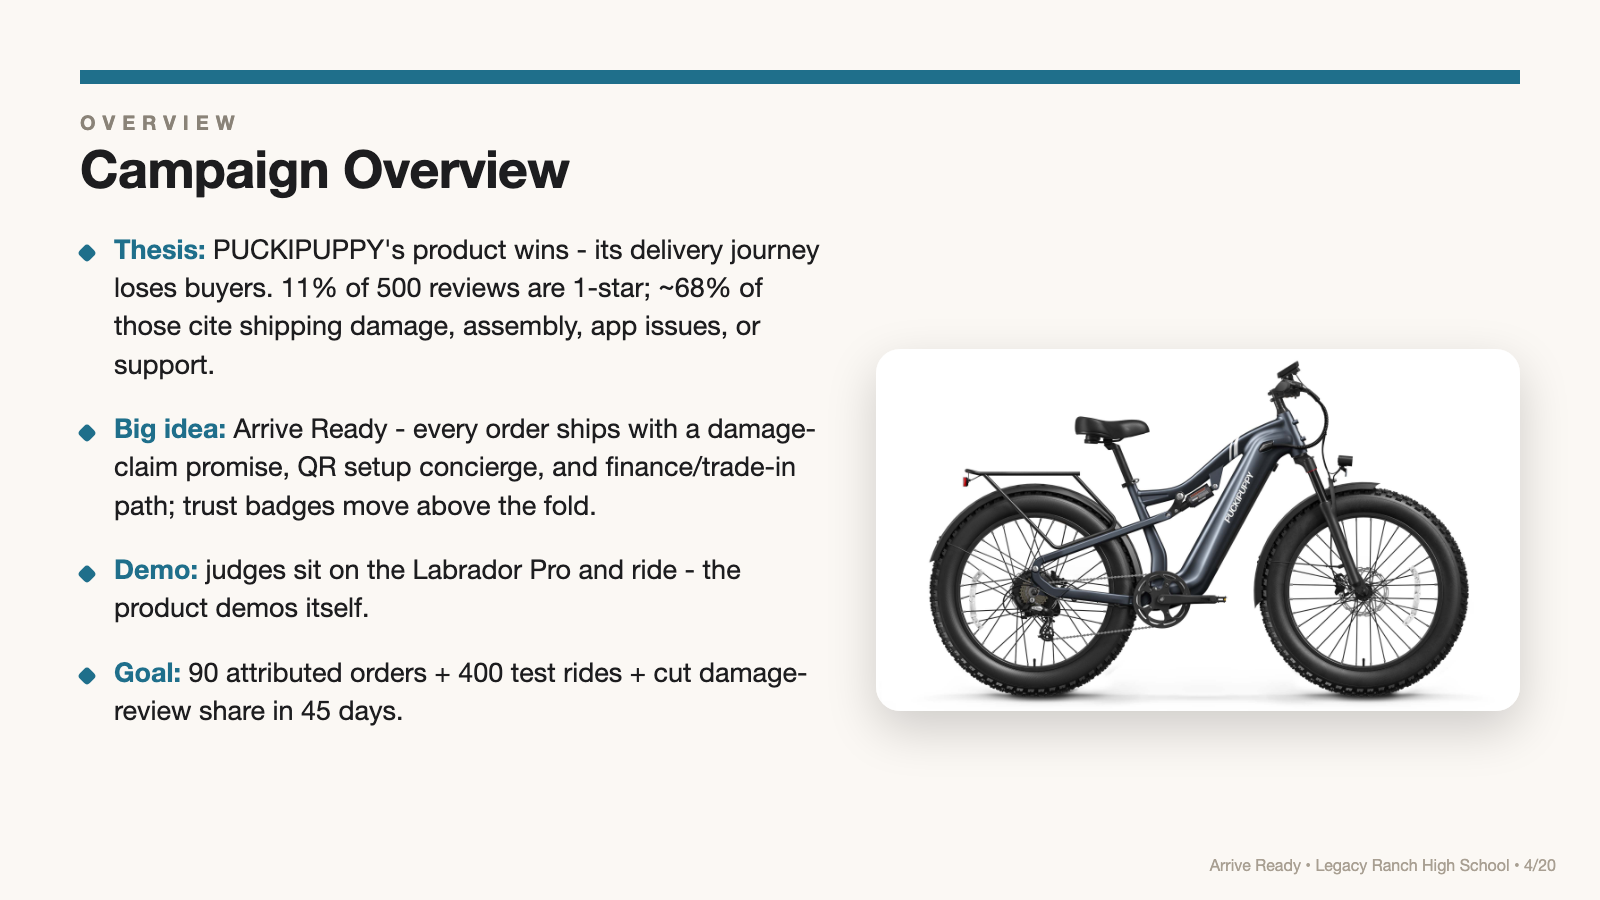
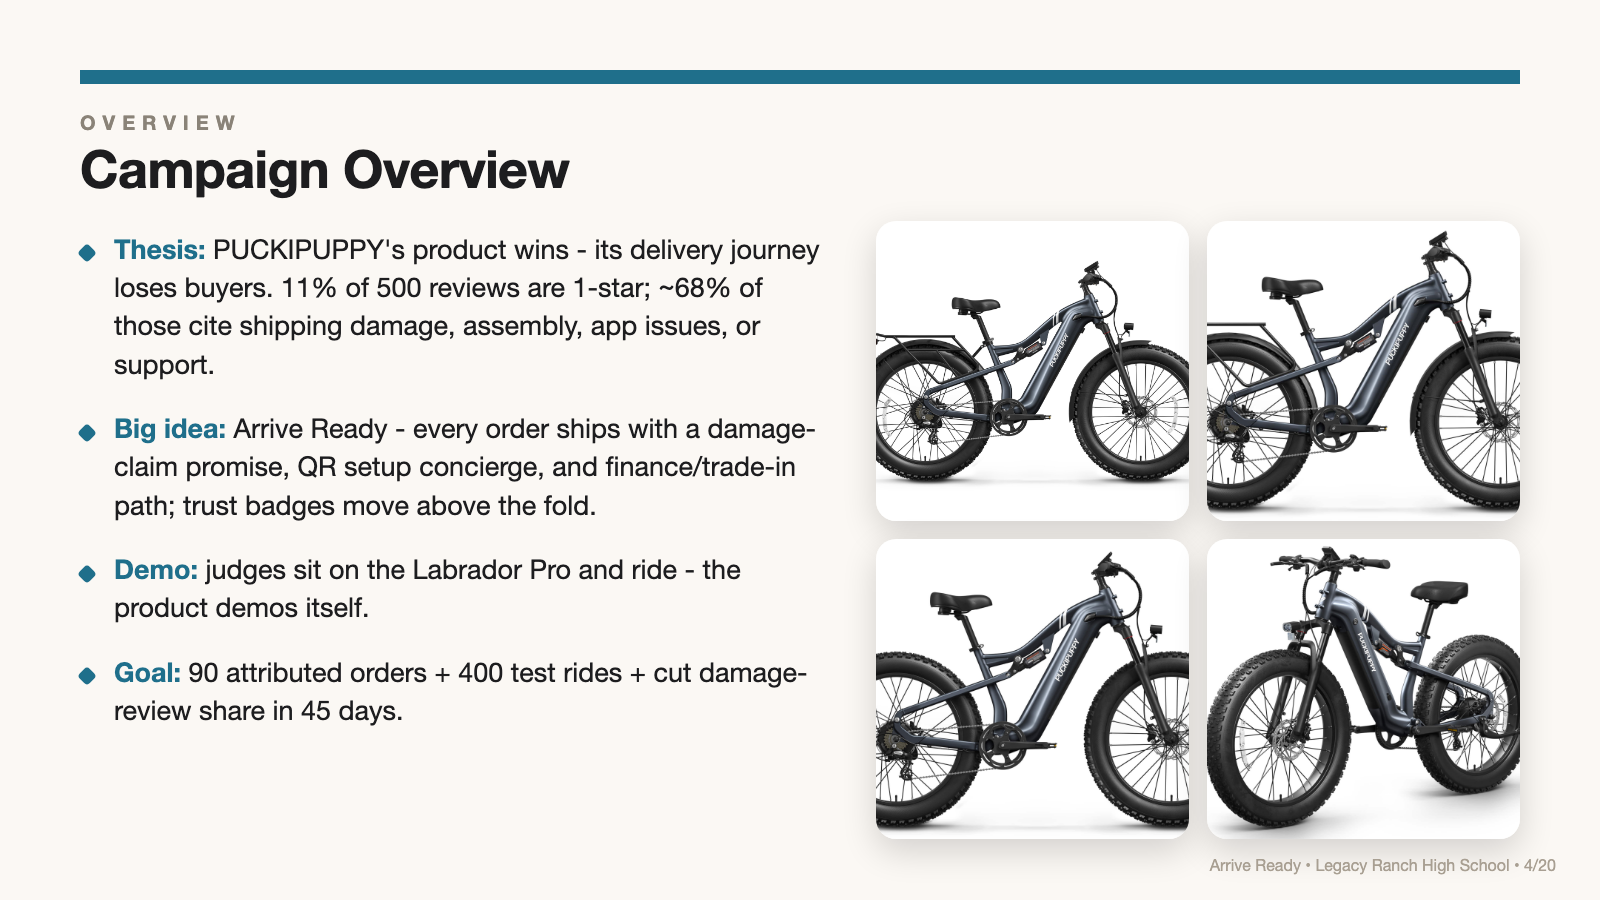
render_poster: real-business visuals - review stat chips + verbatim quote cards on research slides, photo collages on product slides
Generated with [Devin](https://devin.ai)

Changed region(s): [[0.5312, 0.2489, 0.9688, 0.9644]]

diff --git a/pipeline/runs/v18/posters/p04.html b/pipeline/runs/v18/posters/p04.html
@@ -16,6 +16,16 @@
 .vis img{max-width:100%;max-height:640px;border-radius:24px;box-shadow:0 18px 50px rgba(0,0,0,.18);object-fit:contain}
 .vis.ph{border:3px dashed #c9c0b4;border-radius:24px;align-items:center;justify-content:center}
 .phcap{font-size:20px;color:#8a8378;text-align:center;padding:30px;line-height:1.5}
+/* real-business extras */
+.collage{flex:1;display:grid;grid-template-columns:1fr 1fr;gap:18px;align-content:center}
+.collage img{width:100%;height:300px;object-fit:cover;border-radius:20px;box-shadow:0 12px 34px rgba(0,0,0,.16)}
+.viscol{flex:1;display:flex;flex-direction:column;gap:22px;justify-content:center}
+.statrow{display:flex;gap:14px}
+.stat{flex:1;background:var(--brand);color:#fff;border-radius:18px;padding:20px 16px;text-align:center;box-shadow:0 10px 26px rgba(0,0,0,.15)}
+.statn{font-size:30px;font-weight:900;line-height:1.15}
+.qcard{background:#fff;border:1px solid #e9e2d6;border-left:8px solid var(--brand);border-radius:16px;padding:22px 24px;box-shadow:0 8px 22px rgba(0,0,0,.07)}
+.qtext{font-size:23px;font-weight:600;line-height:1.35;color:#2a2a2a}
+.qsrc{font-size:15px;color:#8a8378;margin-top:10px;font-weight:700;letter-spacing:.05em;text-transform:uppercase}
 .footw{position:absolute;bottom:26px;right:44px;font-size:16px;color:rgba(255,255,255,.75)}
 .footw.dark{color:#a89f92}
 /* cover */
@@ -35,5 +45,5 @@
 </style></head><body><div class="slide"><div class="pad"><div class="topbar" style="background:#1f6f8b"></div>
 <div class="head"><div class="kicker">OVERVIEW</div>
 <div class="title">Campaign Overview</div></div>
-<div class="cols"><div class="blist"><ul><li><b>Thesis:</b> PUCKIPUPPY&#x27;s product wins - its delivery journey loses buyers. 11% of 500 reviews are 1-star; ~68% of those cite shipping damage, assembly, app issues, or support.</li><li><b>Big idea:</b> Arrive Ready - every order ships with a damage-claim promise, QR setup concierge, and finance/trade-in path; trust badges move above the fold.</li><li><b>Demo:</b> judges sit on the Labrador Pro and ride - the product demos itself.</li><li><b>Goal:</b> 90 attributed orders + 400 test rides + cut damage-review share in 45 days.</li></ul></div><div class="vis"><img src="file:///Users/pranav/Desktop/DevinProjects/imcp-product-finder/pipeline/runs/v18/photos/labrador_2.jpg"></div></div>
+<div class="cols"><div class="blist"><ul><li><b>Thesis:</b> PUCKIPUPPY&#x27;s product wins - its delivery journey loses buyers. 11% of 500 reviews are 1-star; ~68% of those cite shipping damage, assembly, app issues, or support.</li><li><b>Big idea:</b> Arrive Ready - every order ships with a damage-claim promise, QR setup concierge, and finance/trade-in path; trust badges move above the fold.</li><li><b>Demo:</b> judges sit on the Labrador Pro and ride - the product demos itself.</li><li><b>Goal:</b> 90 attributed orders + 400 test rides + cut damage-review share in 45 days.</li></ul></div><div class="collage"><img src="file:///Users/pranav/Desktop/DevinProjects/imcp-product-finder/pipeline/runs/v18/photos/labrador_1.jpg"><img src="file:///Users/pranav/Desktop/DevinProjects/imcp-product-finder/pipeline/runs/v18/photos/labrador_2.jpg"><img src="file:///Users/pranav/Desktop/DevinProjects/imcp-product-finder/pipeline/runs/v18/photos/labrador_3.jpg"><img src="file:///Users/pranav/Desktop/DevinProjects/imcp-product-finder/pipeline/runs/v18/photos/labrador_4.jpg"></div></div>
 <div class="footw dark">Arrive Ready  •  Legacy Ranch High School  •  4/20</div></div></div></body></html>

diff --git a/pipeline/runs/v18/posters/p06.html b/pipeline/runs/v18/posters/p06.html
@@ -16,6 +16,16 @@
 .vis img{max-width:100%;max-height:640px;border-radius:24px;box-shadow:0 18px 50px rgba(0,0,0,.18);object-fit:contain}
 .vis.ph{border:3px dashed #c9c0b4;border-radius:24px;align-items:center;justify-content:center}
 .phcap{font-size:20px;color:#8a8378;text-align:center;padding:30px;line-height:1.5}
+/* real-business extras */
+.collage{flex:1;display:grid;grid-template-columns:1fr 1fr;gap:18px;align-content:center}
+.collage img{width:100%;height:300px;object-fit:cover;border-radius:20px;box-shadow:0 12px 34px rgba(0,0,0,.16)}
+.viscol{flex:1;display:flex;flex-direction:column;gap:22px;justify-content:center}
+.statrow{display:flex;gap:14px}
+.stat{flex:1;background:var(--brand);color:#fff;border-radius:18px;padding:20px 16px;text-align:center;box-shadow:0 10px 26px rgba(0,0,0,.15)}
+.statn{font-size:30px;font-weight:900;line-height:1.15}
+.qcard{background:#fff;border:1px solid #e9e2d6;border-left:8px solid var(--brand);border-radius:16px;padding:22px 24px;box-shadow:0 8px 22px rgba(0,0,0,.07)}
+.qtext{font-size:23px;font-weight:600;line-height:1.35;color:#2a2a2a}
+.qsrc{font-size:15px;color:#8a8378;margin-top:10px;font-weight:700;letter-spacing:.05em;text-transform:uppercase}
 .footw{position:absolute;bottom:26px;right:44px;font-size:16px;color:rgba(255,255,255,.75)}
 .footw.dark{color:#a89f92}
 /* cover */
@@ -35,5 +45,5 @@
 </style></head><body><div class="slide"><div class="pad"><div class="topbar" style="background:#1f6f8b"></div>
 <div class="head"><div class="kicker">DESCRIPTION</div>
 <div class="title">The Company &amp; Its Position</div></div>
-<div class="cols"><div class="blist"><ul><li><b>California DTC brand est.</b> 2022 by founder Bob, named for his dog Puck; ~145K monthly visits, 11-50 employees.</li><li><b>Trust assets exist but are buried:</b> UL certifications, Trustpilot 4.7/620, founder story - none above the fold.</li><li><b>DTC-only vs.</b> &#x27;affordable for all&#x27; promise; no mass retail presence found in audit - whitespace is experience, not distribution.</li></ul></div><div class="vis"><img src="file:///Users/pranav/Desktop/DevinProjects/imcp-product-finder/pipeline/runs/v18/visuals/s06.png"></div></div>
+<div class="cols"><div class="blist"><ul><li><b>California DTC brand est.</b> 2022 by founder Bob, named for his dog Puck; ~145K monthly visits, 11-50 employees.</li><li><b>Trust assets exist but are buried:</b> UL certifications, Trustpilot 4.7/620, founder story - none above the fold.</li><li><b>DTC-only vs.</b> &#x27;affordable for all&#x27; promise; no mass retail presence found in audit - whitespace is experience, not distribution.</li></ul></div><div class="collage"><img src="file:///Users/pranav/Desktop/DevinProjects/imcp-product-finder/pipeline/runs/v18/photos/labrador_1.jpg"><img src="file:///Users/pranav/Desktop/DevinProjects/imcp-product-finder/pipeline/runs/v18/photos/labrador_2.jpg"><img src="file:///Users/pranav/Desktop/DevinProjects/imcp-product-finder/pipeline/runs/v18/photos/labrador_3.jpg"><img src="file:///Users/pranav/Desktop/DevinProjects/imcp-product-finder/pipeline/runs/v18/photos/labrador_4.jpg"></div></div>
 <div class="footw dark">Arrive Ready  •  Legacy Ranch High School  •  6/20</div></div></div></body></html>

diff --git a/pipeline/runs/v18/posters/p05.html b/pipeline/runs/v18/posters/p05.html
@@ -16,6 +16,16 @@
 .vis img{max-width:100%;max-height:640px;border-radius:24px;box-shadow:0 18px 50px rgba(0,0,0,.18);object-fit:contain}
 .vis.ph{border:3px dashed #c9c0b4;border-radius:24px;align-items:center;justify-content:center}
 .phcap{font-size:20px;color:#8a8378;text-align:center;padding:30px;line-height:1.5}
+/* real-business extras */
+.collage{flex:1;display:grid;grid-template-columns:1fr 1fr;gap:18px;align-content:center}
+.collage img{width:100%;height:300px;object-fit:cover;border-radius:20px;box-shadow:0 12px 34px rgba(0,0,0,.16)}
+.viscol{flex:1;display:flex;flex-direction:column;gap:22px;justify-content:center}
+.statrow{display:flex;gap:14px}
+.stat{flex:1;background:var(--brand);color:#fff;border-radius:18px;padding:20px 16px;text-align:center;box-shadow:0 10px 26px rgba(0,0,0,.15)}
+.statn{font-size:30px;font-weight:900;line-height:1.15}
+.qcard{background:#fff;border:1px solid #e9e2d6;border-left:8px solid var(--brand);border-radius:16px;padding:22px 24px;box-shadow:0 8px 22px rgba(0,0,0,.07)}
+.qtext{font-size:23px;font-weight:600;line-height:1.35;color:#2a2a2a}
+.qsrc{font-size:15px;color:#8a8378;margin-top:10px;font-weight:700;letter-spacing:.05em;text-transform:uppercase}
 .footw{position:absolute;bottom:26px;right:44px;font-size:16px;color:rgba(255,255,255,.75)}
 .footw.dark{color:#a89f92}
 /* cover */
@@ -35,5 +45,5 @@
 </style></head><body><div class="slide"><div class="pad"><div class="topbar" style="background:#1f6f8b"></div>
 <div class="head"><div class="kicker">DESCRIPTION</div>
 <div class="title">The Product</div></div>
-<div class="cols"><div class="blist"><ul><li><b>PUCKIPUPPY makes dog-breed-named ebikes -</b> Labrador Pro (~$1,399), Boxer ST, Corgi, Husky trike - for riders 28-50 who want car-free trips.</li><li>UL 2849/2271 certified; torque sensor praised as &#x27;natural&#x27; feel; 80-mile range in reviews.</li><li><b>Problem:</b> $1,299-$1,699 sticker + freight shipping + self-assembly = the highest-anxiety purchase in the category.</li></ul></div><div class="vis"><img src="file:///Users/pranav/Desktop/DevinProjects/imcp-product-finder/pipeline/runs/v18/photos/labrador_3.jpg"></div></div>
+<div class="cols"><div class="blist"><ul><li><b>PUCKIPUPPY makes dog-breed-named ebikes -</b> Labrador Pro (~$1,399), Boxer ST, Corgi, Husky trike - for riders 28-50 who want car-free trips.</li><li>UL 2849/2271 certified; torque sensor praised as &#x27;natural&#x27; feel; 80-mile range in reviews.</li><li><b>Problem:</b> $1,299-$1,699 sticker + freight shipping + self-assembly = the highest-anxiety purchase in the category.</li></ul></div><div class="collage"><img src="file:///Users/pranav/Desktop/DevinProjects/imcp-product-finder/pipeline/runs/v18/photos/labrador_1.jpg"><img src="file:///Users/pranav/Desktop/DevinProjects/imcp-product-finder/pipeline/runs/v18/photos/labrador_2.jpg"><img src="file:///Users/pranav/Desktop/DevinProjects/imcp-product-finder/pipeline/runs/v18/photos/labrador_3.jpg"><img src="file:///Users/pranav/Desktop/DevinProjects/imcp-product-finder/pipeline/runs/v18/photos/labrador_4.jpg"></div></div>
 <div class="footw dark">Arrive Ready  •  Legacy Ranch High School  •  5/20</div></div></div></body></html>

diff --git a/pipeline/runs/v18/posters/p08.html b/pipeline/runs/v18/posters/p08.html
@@ -16,6 +16,16 @@
 .vis img{max-width:100%;max-height:640px;border-radius:24px;box-shadow:0 18px 50px rgba(0,0,0,.18);object-fit:contain}
 .vis.ph{border:3px dashed #c9c0b4;border-radius:24px;align-items:center;justify-content:center}
 .phcap{font-size:20px;color:#8a8378;text-align:center;padding:30px;line-height:1.5}
+/* real-business extras */
+.collage{flex:1;display:grid;grid-template-columns:1fr 1fr;gap:18px;align-content:center}
+.collage img{width:100%;height:300px;object-fit:cover;border-radius:20px;box-shadow:0 12px 34px rgba(0,0,0,.16)}
+.viscol{flex:1;display:flex;flex-direction:column;gap:22px;justify-content:center}
+.statrow{display:flex;gap:14px}
+.stat{flex:1;background:var(--brand);color:#fff;border-radius:18px;padding:20px 16px;text-align:center;box-shadow:0 10px 26px rgba(0,0,0,.15)}
+.statn{font-size:30px;font-weight:900;line-height:1.15}
+.qcard{background:#fff;border:1px solid #e9e2d6;border-left:8px solid var(--brand);border-radius:16px;padding:22px 24px;box-shadow:0 8px 22px rgba(0,0,0,.07)}
+.qtext{font-size:23px;font-weight:600;line-height:1.35;color:#2a2a2a}
+.qsrc{font-size:15px;color:#8a8378;margin-top:10px;font-weight:700;letter-spacing:.05em;text-transform:uppercase}
 .footw{position:absolute;bottom:26px;right:44px;font-size:16px;color:rgba(255,255,255,.75)}
 .footw.dark{color:#a89f92}
 /* cover */
@@ -35,5 +45,5 @@
 </style></head><body><div class="slide"><div class="pad"><div class="topbar" style="background:#1f6f8b"></div>
 <div class="head"><div class="kicker">TARGET_MARKET</div>
 <div class="title">Target Market</div></div>
-<div class="cols"><div class="blist"><ul><li><b>P1 -</b> First-Time E-Commuters (28-50): suburbs, one car per adult, 2-6 week consideration, reads reviews + certifications.</li><li><b>P2 -</b> Pet-People Lifestyle Buyers (25-45): dog owners who ride with pets; respond to founder story + breed models.</li><li><b>Both need the same thing:</b> proof the $1,400 bike arrives ready and is supported when it doesn&#x27;t.</li></ul></div><div class="vis"><img src="file:///Users/pranav/Desktop/DevinProjects/imcp-product-finder/pipeline/runs/v18/photos/labrador_4.jpg"></div></div>
+<div class="cols"><div class="blist"><ul><li><b>P1 -</b> First-Time E-Commuters (28-50): suburbs, one car per adult, 2-6 week consideration, reads reviews + certifications.</li><li><b>P2 -</b> Pet-People Lifestyle Buyers (25-45): dog owners who ride with pets; respond to founder story + breed models.</li><li><b>Both need the same thing:</b> proof the $1,400 bike arrives ready and is supported when it doesn&#x27;t.</li></ul></div><div class="collage"><img src="file:///Users/pranav/Desktop/DevinProjects/imcp-product-finder/pipeline/runs/v18/photos/labrador_1.jpg"><img src="file:///Users/pranav/Desktop/DevinProjects/imcp-product-finder/pipeline/runs/v18/photos/labrador_2.jpg"><img src="file:///Users/pranav/Desktop/DevinProjects/imcp-product-finder/pipeline/runs/v18/photos/labrador_3.jpg"><img src="file:///Users/pranav/Desktop/DevinProjects/imcp-product-finder/pipeline/runs/v18/photos/labrador_4.jpg"></div></div>
 <div class="footw dark">Arrive Ready  •  Legacy Ranch High School  •  8/20</div></div></div></body></html>

diff --git a/pipeline/runs/v18/posters/p01.html b/pipeline/runs/v18/posters/p01.html
@@ -16,6 +16,16 @@
 .vis img{max-width:100%;max-height:640px;border-radius:24px;box-shadow:0 18px 50px rgba(0,0,0,.18);object-fit:contain}
 .vis.ph{border:3px dashed #c9c0b4;border-radius:24px;align-items:center;justify-content:center}
 .phcap{font-size:20px;color:#8a8378;text-align:center;padding:30px;line-height:1.5}
+/* real-business extras */
+.collage{flex:1;display:grid;grid-template-columns:1fr 1fr;gap:18px;align-content:center}
+.collage img{width:100%;height:300px;object-fit:cover;border-radius:20px;box-shadow:0 12px 34px rgba(0,0,0,.16)}
+.viscol{flex:1;display:flex;flex-direction:column;gap:22px;justify-content:center}
+.statrow{display:flex;gap:14px}
+.stat{flex:1;background:var(--brand);color:#fff;border-radius:18px;padding:20px 16px;text-align:center;box-shadow:0 10px 26px rgba(0,0,0,.15)}
+.statn{font-size:30px;font-weight:900;line-height:1.15}
+.qcard{background:#fff;border:1px solid #e9e2d6;border-left:8px solid var(--brand);border-radius:16px;padding:22px 24px;box-shadow:0 8px 22px rgba(0,0,0,.07)}
+.qtext{font-size:23px;font-weight:600;line-height:1.35;color:#2a2a2a}
+.qsrc{font-size:15px;color:#8a8378;margin-top:10px;font-weight:700;letter-spacing:.05em;text-transform:uppercase}
 .footw{position:absolute;bottom:26px;right:44px;font-size:16px;color:rgba(255,255,255,.75)}
 .footw.dark{color:#a89f92}
 /* cover */

diff --git a/pipeline/runs/v18/posters/p02.html b/pipeline/runs/v18/posters/p02.html
@@ -16,6 +16,16 @@
 .vis img{max-width:100%;max-height:640px;border-radius:24px;box-shadow:0 18px 50px rgba(0,0,0,.18);object-fit:contain}
 .vis.ph{border:3px dashed #c9c0b4;border-radius:24px;align-items:center;justify-content:center}
 .phcap{font-size:20px;color:#8a8378;text-align:center;padding:30px;line-height:1.5}
+/* real-business extras */
+.collage{flex:1;display:grid;grid-template-columns:1fr 1fr;gap:18px;align-content:center}
+.collage img{width:100%;height:300px;object-fit:cover;border-radius:20px;box-shadow:0 12px 34px rgba(0,0,0,.16)}
+.viscol{flex:1;display:flex;flex-direction:column;gap:22px;justify-content:center}
+.statrow{display:flex;gap:14px}
+.stat{flex:1;background:var(--brand);color:#fff;border-radius:18px;padding:20px 16px;text-align:center;box-shadow:0 10px 26px rgba(0,0,0,.15)}
+.statn{font-size:30px;font-weight:900;line-height:1.15}
+.qcard{background:#fff;border:1px solid #e9e2d6;border-left:8px solid var(--brand);border-radius:16px;padding:22px 24px;box-shadow:0 8px 22px rgba(0,0,0,.07)}
+.qtext{font-size:23px;font-weight:600;line-height:1.35;color:#2a2a2a}
+.qsrc{font-size:15px;color:#8a8378;margin-top:10px;font-weight:700;letter-spacing:.05em;text-transform:uppercase}
 .footw{position:absolute;bottom:26px;right:44px;font-size:16px;color:rgba(255,255,255,.75)}
 .footw.dark{color:#a89f92}
 /* cover */

diff --git a/pipeline/runs/v18/posters/p03.html b/pipeline/runs/v18/posters/p03.html
@@ -16,6 +16,16 @@
 .vis img{max-width:100%;max-height:640px;border-radius:24px;box-shadow:0 18px 50px rgba(0,0,0,.18);object-fit:contain}
 .vis.ph{border:3px dashed #c9c0b4;border-radius:24px;align-items:center;justify-content:center}
 .phcap{font-size:20px;color:#8a8378;text-align:center;padding:30px;line-height:1.5}
+/* real-business extras */
+.collage{flex:1;display:grid;grid-template-columns:1fr 1fr;gap:18px;align-content:center}
+.collage img{width:100%;height:300px;object-fit:cover;border-radius:20px;box-shadow:0 12px 34px rgba(0,0,0,.16)}
+.viscol{flex:1;display:flex;flex-direction:column;gap:22px;justify-content:center}
+.statrow{display:flex;gap:14px}
+.stat{flex:1;background:var(--brand);color:#fff;border-radius:18px;padding:20px 16px;text-align:center;box-shadow:0 10px 26px rgba(0,0,0,.15)}
+.statn{font-size:30px;font-weight:900;line-height:1.15}
+.qcard{background:#fff;border:1px solid #e9e2d6;border-left:8px solid var(--brand);border-radius:16px;padding:22px 24px;box-shadow:0 8px 22px rgba(0,0,0,.07)}
+.qtext{font-size:23px;font-weight:600;line-height:1.35;color:#2a2a2a}
+.qsrc{font-size:15px;color:#8a8378;margin-top:10px;font-weight:700;letter-spacing:.05em;text-transform:uppercase}
 .footw{position:absolute;bottom:26px;right:44px;font-size:16px;color:rgba(255,255,255,.75)}
 .footw.dark{color:#a89f92}
 /* cover */

diff --git a/pipeline/runs/v18/posters/p07.html b/pipeline/runs/v18/posters/p07.html
@@ -16,6 +16,16 @@
 .vis img{max-width:100%;max-height:640px;border-radius:24px;box-shadow:0 18px 50px rgba(0,0,0,.18);object-fit:contain}
 .vis.ph{border:3px dashed #c9c0b4;border-radius:24px;align-items:center;justify-content:center}
 .phcap{font-size:20px;color:#8a8378;text-align:center;padding:30px;line-height:1.5}
+/* real-business extras */
+.collage{flex:1;display:grid;grid-template-columns:1fr 1fr;gap:18px;align-content:center}
+.collage img{width:100%;height:300px;object-fit:cover;border-radius:20px;box-shadow:0 12px 34px rgba(0,0,0,.16)}
+.viscol{flex:1;display:flex;flex-direction:column;gap:22px;justify-content:center}
+.statrow{display:flex;gap:14px}
+.stat{flex:1;background:var(--brand);color:#fff;border-radius:18px;padding:20px 16px;text-align:center;box-shadow:0 10px 26px rgba(0,0,0,.15)}
+.statn{font-size:30px;font-weight:900;line-height:1.15}
+.qcard{background:#fff;border:1px solid #e9e2d6;border-left:8px solid var(--brand);border-radius:16px;padding:22px 24px;box-shadow:0 8px 22px rgba(0,0,0,.07)}
+.qtext{font-size:23px;font-weight:600;line-height:1.35;color:#2a2a2a}
+.qsrc{font-size:15px;color:#8a8378;margin-top:10px;font-weight:700;letter-spacing:.05em;text-transform:uppercase}
 .footw{position:absolute;bottom:26px;right:44px;font-size:16px;color:rgba(255,255,255,.75)}
 .footw.dark{color:#a89f92}
 /* cover */

diff --git a/pipeline/runs/v18/posters/p09.html b/pipeline/runs/v18/posters/p09.html
@@ -16,6 +16,16 @@
 .vis img{max-width:100%;max-height:640px;border-radius:24px;box-shadow:0 18px 50px rgba(0,0,0,.18);object-fit:contain}
 .vis.ph{border:3px dashed #c9c0b4;border-radius:24px;align-items:center;justify-content:center}
 .phcap{font-size:20px;color:#8a8378;text-align:center;padding:30px;line-height:1.5}
+/* real-business extras */
+.collage{flex:1;display:grid;grid-template-columns:1fr 1fr;gap:18px;align-content:center}
+.collage img{width:100%;height:300px;object-fit:cover;border-radius:20px;box-shadow:0 12px 34px rgba(0,0,0,.16)}
+.viscol{flex:1;display:flex;flex-direction:column;gap:22px;justify-content:center}
+.statrow{display:flex;gap:14px}
+.stat{flex:1;background:var(--brand);color:#fff;border-radius:18px;padding:20px 16px;text-align:center;box-shadow:0 10px 26px rgba(0,0,0,.15)}
+.statn{font-size:30px;font-weight:900;line-height:1.15}
+.qcard{background:#fff;border:1px solid #e9e2d6;border-left:8px solid var(--brand);border-radius:16px;padding:22px 24px;box-shadow:0 8px 22px rgba(0,0,0,.07)}
+.qtext{font-size:23px;font-weight:600;line-height:1.35;color:#2a2a2a}
+.qsrc{font-size:15px;color:#8a8378;margin-top:10px;font-weight:700;letter-spacing:.05em;text-transform:uppercase}
 .footw{position:absolute;bottom:26px;right:44px;font-size:16px;color:rgba(255,255,255,.75)}
 .footw.dark{color:#a89f92}
 /* cover */

diff --git a/pipeline/runs/v18/posters/p10.html b/pipeline/runs/v18/posters/p10.html
@@ -16,6 +16,16 @@
 .vis img{max-width:100%;max-height:640px;border-radius:24px;box-shadow:0 18px 50px rgba(0,0,0,.18);object-fit:contain}
 .vis.ph{border:3px dashed #c9c0b4;border-radius:24px;align-items:center;justify-content:center}
 .phcap{font-size:20px;color:#8a8378;text-align:center;padding:30px;line-height:1.5}
+/* real-business extras */
+.collage{flex:1;display:grid;grid-template-columns:1fr 1fr;gap:18px;align-content:center}
+.collage img{width:100%;height:300px;object-fit:cover;border-radius:20px;box-shadow:0 12px 34px rgba(0,0,0,.16)}
+.viscol{flex:1;display:flex;flex-direction:column;gap:22px;justify-content:center}
+.statrow{display:flex;gap:14px}
+.stat{flex:1;background:var(--brand);color:#fff;border-radius:18px;padding:20px 16px;text-align:center;box-shadow:0 10px 26px rgba(0,0,0,.15)}
+.statn{font-size:30px;font-weight:900;line-height:1.15}
+.qcard{background:#fff;border:1px solid #e9e2d6;border-left:8px solid var(--brand);border-radius:16px;padding:22px 24px;box-shadow:0 8px 22px rgba(0,0,0,.07)}
+.qtext{font-size:23px;font-weight:600;line-height:1.35;color:#2a2a2a}
+.qsrc{font-size:15px;color:#8a8378;margin-top:10px;font-weight:700;letter-spacing:.05em;text-transform:uppercase}
 .footw{position:absolute;bottom:26px;right:44px;font-size:16px;color:rgba(255,255,255,.75)}
 .footw.dark{color:#a89f92}
 /* cover */

diff --git a/pipeline/runs/v18/posters/p11.html b/pipeline/runs/v18/posters/p11.html
@@ -16,6 +16,16 @@
 .vis img{max-width:100%;max-height:640px;border-radius:24px;box-shadow:0 18px 50px rgba(0,0,0,.18);object-fit:contain}
 .vis.ph{border:3px dashed #c9c0b4;border-radius:24px;align-items:center;justify-content:center}
 .phcap{font-size:20px;color:#8a8378;text-align:center;padding:30px;line-height:1.5}
+/* real-business extras */
+.collage{flex:1;display:grid;grid-template-columns:1fr 1fr;gap:18px;align-content:center}
+.collage img{width:100%;height:300px;object-fit:cover;border-radius:20px;box-shadow:0 12px 34px rgba(0,0,0,.16)}
+.viscol{flex:1;display:flex;flex-direction:column;gap:22px;justify-content:center}
+.statrow{display:flex;gap:14px}
+.stat{flex:1;background:var(--brand);color:#fff;border-radius:18px;padding:20px 16px;text-align:center;box-shadow:0 10px 26px rgba(0,0,0,.15)}
+.statn{font-size:30px;font-weight:900;line-height:1.15}
+.qcard{background:#fff;border:1px solid #e9e2d6;border-left:8px solid var(--brand);border-radius:16px;padding:22px 24px;box-shadow:0 8px 22px rgba(0,0,0,.07)}
+.qtext{font-size:23px;font-weight:600;line-height:1.35;color:#2a2a2a}
+.qsrc{font-size:15px;color:#8a8378;margin-top:10px;font-weight:700;letter-spacing:.05em;text-transform:uppercase}
 .footw{position:absolute;bottom:26px;right:44px;font-size:16px;color:rgba(255,255,255,.75)}
 .footw.dark{color:#a89f92}
 /* cover */

diff --git a/pipeline/runs/v18/posters/p12.html b/pipeline/runs/v18/posters/p12.html
@@ -16,6 +16,16 @@
 .vis img{max-width:100%;max-height:640px;border-radius:24px;box-shadow:0 18px 50px rgba(0,0,0,.18);object-fit:contain}
 .vis.ph{border:3px dashed #c9c0b4;border-radius:24px;align-items:center;justify-content:center}
 .phcap{font-size:20px;color:#8a8378;text-align:center;padding:30px;line-height:1.5}
+/* real-business extras */
+.collage{flex:1;display:grid;grid-template-columns:1fr 1fr;gap:18px;align-content:center}
+.collage img{width:100%;height:300px;object-fit:cover;border-radius:20px;box-shadow:0 12px 34px rgba(0,0,0,.16)}
+.viscol{flex:1;display:flex;flex-direction:column;gap:22px;justify-content:center}
+.statrow{display:flex;gap:14px}
+.stat{flex:1;background:var(--brand);color:#fff;border-radius:18px;padding:20px 16px;text-align:center;box-shadow:0 10px 26px rgba(0,0,0,.15)}
+.statn{font-size:30px;font-weight:900;line-height:1.15}
+.qcard{background:#fff;border:1px solid #e9e2d6;border-left:8px solid var(--brand);border-radius:16px;padding:22px 24px;box-shadow:0 8px 22px rgba(0,0,0,.07)}
+.qtext{font-size:23px;font-weight:600;line-height:1.35;color:#2a2a2a}
+.qsrc{font-size:15px;color:#8a8378;margin-top:10px;font-weight:700;letter-spacing:.05em;text-transform:uppercase}
 .footw{position:absolute;bottom:26px;right:44px;font-size:16px;color:rgba(255,255,255,.75)}
 .footw.dark{color:#a89f92}
 /* cover */
